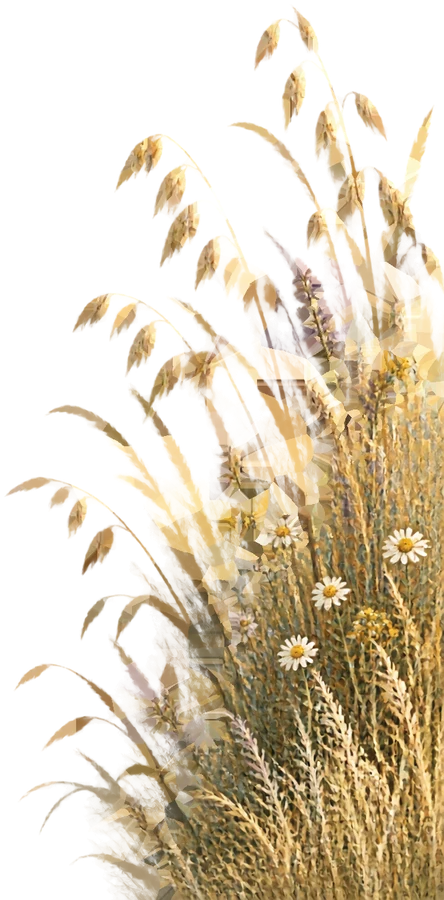
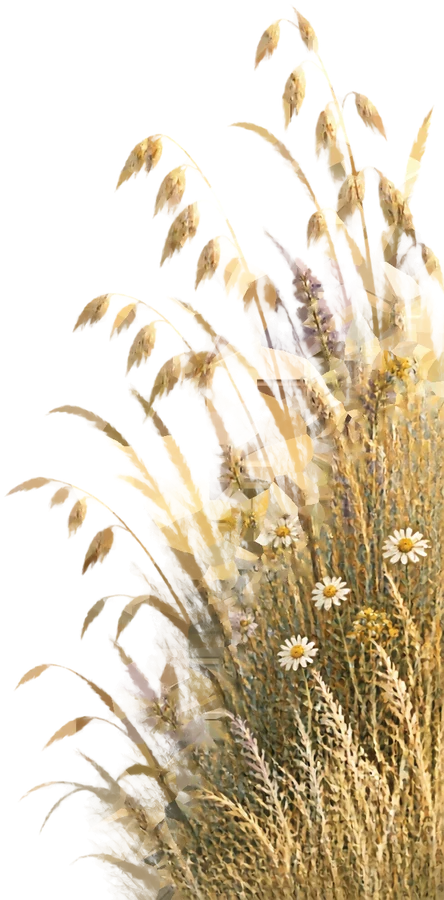
Chapter 1: depth-sorted ground, pointing aimed at the ship, ship clears the carrier; smooth defringe for foliage
- Villagers and ground props drawn back to front by ground line (the carrier passes
  behind the nearer shrub and net; the rock stays behind the seated child)
- Elder and farmer point up at the ship instead of at their neighbours
- Merchant ship ends its crossing clear of the carrier's amphora in the closing shot
- alpha_qa: optional smooth defringe (normalized convolution of nearby solid colour);
  used for the foreground grass and branch, whose translucent awns went faceted
- tools/slownet.mjs: slow-network check for the Begin curtain

Claude-Session: https://claude.ai/code/session_01TPCe3NQpYd9FFqknt9SLFh

diff --git a/src/scenes/birth.js b/src/scenes/birth.js
@@ -184,12 +184,12 @@ export function build(sc) {
   tl.fromTo(mist, { opacity: 1 }, { opacity: 0.12, duration: 14, ease: 'power1.inOut' }, 1);
 
   // the merchant ship sails in from the far side of the bay and grows as it approaches
-  tl.fromTo(shipP, { x: 760, y: 448, s: 0.34 }, { x: 1190, y: 600, s: 0.8, duration: 19, ease: 'sine.inOut' }, 2.5);
+  tl.fromTo(shipP, { x: 760, y: 448, s: 0.34 }, { x: 1245, y: 588, s: 0.8, duration: 19, ease: 'sine.inOut' }, 2.5);
 
   // watchers: the elder points out to sea, the child looks up and around
-  elder.go(tl, 3.4, 1.3, { armF: 100, elbowF: 4, lean: 2, head: -6 });
+  elder.go(tl, 3.4, 1.3, { armF: 124, elbowF: 4, lean: 1, head: -10 }); // up at the far ship
   elder.go(tl, 8.4, 1.5, { armF: 10, elbowF: 16, lean: 1, head: 0 });
-  elder.go(tl, 15.6, 1.3, { armF: 92, elbowF: 6, lean: 2, head: -4 });
+  elder.go(tl, 15.6, 1.3, { armF: 106, elbowF: 6, lean: 2, head: -6 }); // at the ship, now closer
   elder.go(tl, 20.0, 1.4, { armF: 9, elbowF: 16, lean: 0, head: 0 });
   tl.to(child.p, { head: -12, duration: 1.4, ease: 'sine.inOut' }, 4.2);
   tl.to(child.p, { head: 6, duration: 1.6, ease: 'sine.inOut' }, 10);
@@ -200,7 +200,7 @@ export function build(sc) {
   carrier.walk(tl, 10.5, 1040, 4.6, { ease: 'sine.inOut' });
   // the farmer brings a basket down from the terraces, stops and points at the ship
   farmer.walk(tl, 13.8, 1350, 7.4, { ease: 'sine.inOut' });
-  farmer.go(tl, 21.4, 1.0, { armF: 104, elbowF: 6, head: -6 });
+  farmer.go(tl, 21.4, 1.0, { armF: 134, elbowF: 6, head: -12 }); // up at the ship (it sits higher on screen: parallax)
   farmer.go(tl, 23.3, 0.9, { armF: 8, elbowF: 14, head: 0 });
   tl.set(farmer.p, { facing: 1 }, 24.4);
   // the trader comes up from the landing, stops facing the farmer and talks

diff --git a/tools/assets/alpha_qa.py b/tools/assets/alpha_qa.py
@@ -62,7 +62,20 @@ def composite_strip(rgba, h=420):
     return np.hstack(out)
 
 
-def clean(rgba, speck=60, pad=6):
+def smooth_solid_rgb(rgba, sigma, solid_thr=0.96):
+    """Like nearest_solid_rgb, but a Gaussian-weighted average of the nearby solid colours (normalized
+    convolution), so wide translucent areas get smooth colour instead of nearest-pixel facets."""
+    a = rgba[..., 3].astype(np.float32) / 255
+    solid = (a >= solid_thr).astype(np.float32)
+    w = cv2.GaussianBlur(solid, (0, 0), sigma)
+    acc = cv2.GaussianBlur(rgba[..., :3].astype(np.float32) * solid[..., None], (0, 0), sigma)
+    near = nearest_solid_rgb(rgba, solid_thr).astype(np.float32)
+    k = np.clip(w / 0.05, 0, 1)[..., None]            # far from any solid pixel: fall back to nearest
+    ref = acc / np.maximum(w, 1e-6)[..., None] * k + near * (1 - k)
+    return np.clip(ref + 0.5, 0, 255).astype(np.uint8)
+
+
+def clean(rgba, speck=60, pad=6, smooth=0):
     a = rgba[..., 3].astype(np.float32) / 255
     # drop isolated specks / dust
     n, lab, st, _ = cv2.connectedComponentsWithStats((a > 0.04).astype(np.uint8), connectivity=8)
@@ -72,9 +85,10 @@ def clean(rgba, speck=60, pad=6):
             if st[i, 4] < max(speck, big * 0.0005):
                 a[lab == i] = 0
     a[a < 0.03] = 0
-    # defringe: semi-transparent pixels take the colour of the nearest solid pixel (no matte can survive)
+    # defringe: semi-transparent pixels take the colour of the nearest solid pixel (no matte can survive);
+    # smooth>0 averages nearby solid colours instead (thin translucent foliage would otherwise go faceted)
     tmp = rgba.copy(); tmp[..., 3] = (a * 255).astype(np.uint8)
-    ref = nearest_solid_rgb(tmp)
+    ref = smooth_solid_rgb(tmp, smooth) if smooth else nearest_solid_rgb(tmp)
     edge = (a > 0) & (a < 0.96)
     rgb = rgba[..., :3].copy()
     rgb[edge] = ref[edge]

diff --git a/tools/assets/build_library.py b/tools/assets/build_library.py
@@ -86,9 +86,9 @@ def save(rel, rgba, rt=None, q=88):
 manifest = {}
 
 
-def emit(rel, rgba, anchors=None, extra=None, rt=None, do_clean=True):
+def emit(rel, rgba, anchors=None, extra=None, rt=None, do_clean=True, smooth=0):
     if do_clean:
-        rgba, off = clean(rgba)
+        rgba, off = clean(rgba, smooth=smooth)
     else:
         off = (0, 0)
     H, W = rgba.shape[:2]
@@ -247,11 +247,11 @@ def build_rig_parts():
     emit('global/characters/char_hand_grip', hgrip, anchors={'wrist': top_center})
 
 
-def build_family(src_name, rels, group=30, order='x', anchors=None, rt=None, n=None):
+def build_family(src_name, rels, group=30, order='x', anchors=None, rt=None, n=None, smooth=0):
     src = load(src_name)
     parts = items(src, n or len(rels), group=group, order=order)
     for p, rel in zip(parts, rels):
-        emit(rel, p, anchors=(anchors or {}).get(rel.split('/')[-1], {'base': bottom_center}), rt=rt)
+        emit(rel, p, anchors=(anchors or {}).get(rel.split('/')[-1], {'base': bottom_center}), rt=rt, smooth=smooth)
 
 
 def build_ship():
@@ -317,7 +317,7 @@ def main():
         build_family('g16_olive_saplings', ['global/environment/env_olive_sapling_1', 'global/environment/env_olive_sapling_2', 'global/environment/env_olive_sapling_3'], group=25)
     if os.path.exists(os.path.join(GEN, 'g17_foreground_foliage.png')):
         build_family('g17_foreground_foliage', ['global/environment/env_fg_olive_branch', 'global/environment/env_fg_grass_clump'], group=40,
-                     anchors={'env_fg_olive_branch': {'top': top_center}, 'env_fg_grass_clump': {'base': bottom_center}})
+                     anchors={'env_fg_olive_branch': {'top': top_center}, 'env_fg_grass_clump': {'base': bottom_center}}, smooth=2.5)
     json.dump(manifest, open(MAN, 'w'), indent=1, sort_keys=True)
 
 
